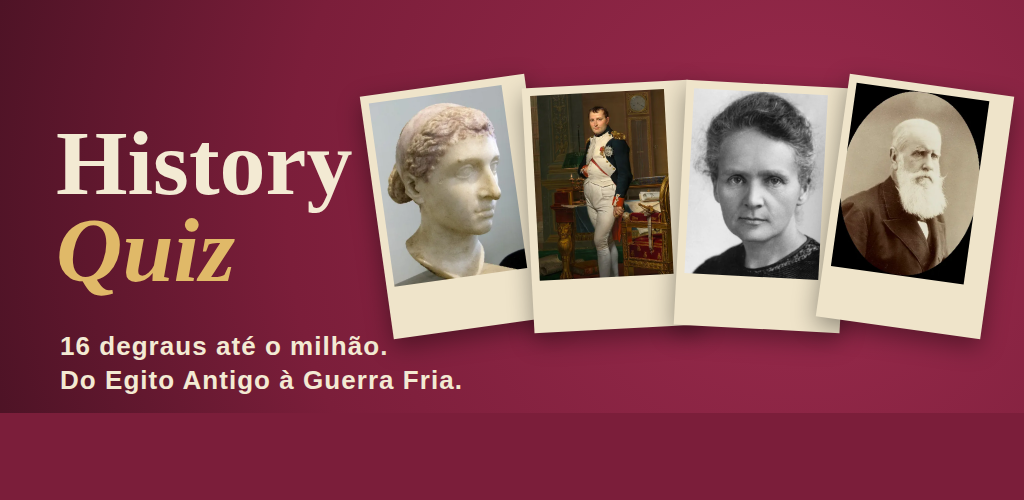
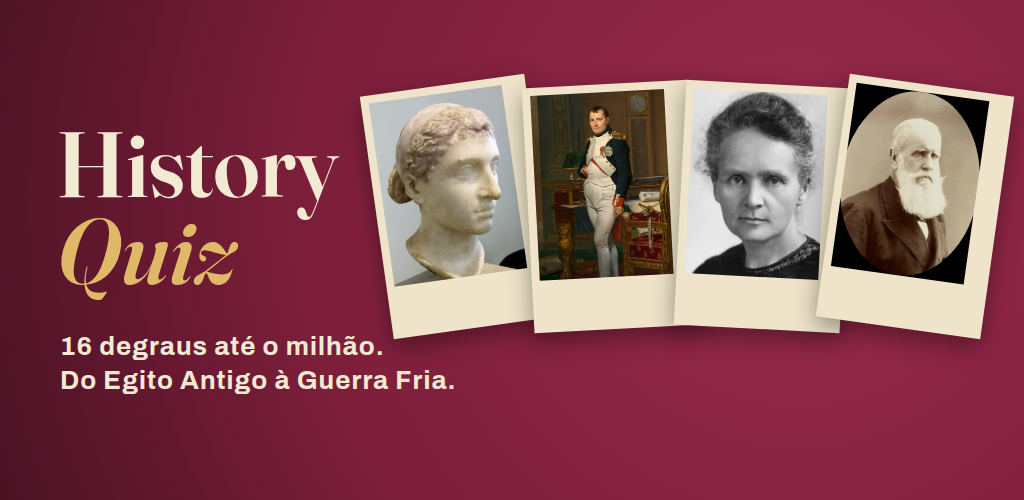
Play Store screenshots: the new set
Eight phone screenshots (Google Play takes eight at most): the cover
with its eight games, Rumo ao Milhão, the album's mapa-múndi, Onde foi?
answered on the atlas, Cronologia's line of time, Hoje na História, a
portrait question and Waterloo. The four older question shots they
replace are removed. Everything is set in the app's own fonts now, the
feature graphic too, and the feature graphic no longer has the blank
strip headless Chrome left under it.

Claude-Session: https://claude.ai/code/session_01VRnirvspfJkgye8PMHK31j

Changed region(s): [[0.0312, 0.24, 0.3438, 0.6], [0.0, 0.81, 0.1875, 1.0], [0.0625, 0.66, 0.4688, 0.78]]

diff --git a/tools/history/store_assets.py b/tools/history/store_assets.py
@@ -19,14 +19,17 @@ def Q(cat, pick, extra=""):
 
 STATES = {
  "shot-01-home": SEED + " heroSticker=function(){var h=PL.find(function(p){return p.id==='napoleao'});return {p:h,num:PL.indexOf(h)+1}}; sc='home'; go();",
- "shot-02-pessoas": Q("renascimento", "q.type==='player' && q.t.indexOf('Mona Lisa')>0"),
- "shot-03-monumento": Q("monumentos", "q.stad==='machu_picchu' && q.type==='txt'"),
- "shot-04-album": SEED + " albView='map'; amapView='EU'; sc='album'; go();",
- "shot-05-linha": ("diffKey='dificil'; cat=buildGame('dificil'); var q=CATS.find(function(c){return c.id==='linha_do_tempo'}).qs[3]; cat.qs=[q]; qi=0; sel.clear(); pts=72; streak=5; runLog=[3,3,3,3,3]; sc='quiz'; tMax=50; tLeft=36; disp=getDisp(q); go();"),
- "shot-07-batalha": Q("batalhas", "q.battle && q.battle.lbl.indexOf('Waterloo')===0"),
- "shot-08-citacao": Q("citacoes", "q.quote && q.quote.q.indexOf('Vim, vi')===0"),
- "shot-09-cena": Q("grecia", "q.t.indexOf('Termópilas')>0"),
- "shot-06-milhao": ("isMil=true; rung=10; banked=5000; diffKey='moderado'; var g=buildMilhao(); cat=g; qi=10; sel.clear(); pts=480; streak=4; runLog=[3,3,3,3,3,3,3,3,3,3]; sc='quiz'; tMax=30; tLeft=22; disp=getDisp(cat.qs[qi]); go();"),
+ "shot-02-milhao": ("isMil=true; rung=10; banked=5000; diffKey='moderado'; var g=buildMilhao(); cat=g; qi=10; sel.clear(); pts=480; streak=4; runLog=[3,3,3,3,3,3,3,3,3,3]; sc='quiz'; tMax=30; tLeft=22; disp=getDisp(cat.qs[qi]); go();"),
+ "shot-03-album": SEED + " albView='map'; amapView='WORLD'; sc='album'; go();",
+ "shot-04-onde": ("chal={g:'o',seed:4242,score:0,accepted:true}; startOnde(); chal=null;"
+                  " var q=onde.qs[0]; ondeSetPin(ondeXY(q.at[0]+0.6, q.at[1]+0.9)); ondeCommit(); ondeNext();"
+                  " q=onde.qs[1]; ondeSetPin(ondeXY(q.at[0]+2.2, q.at[1]-3.1)); ondeCommit();"
+                  " var xy=ondeXY(q.at[0]+1, q.at[1]-1.5); onde.v={cx:xy[0],cy:xy[1],z:3.2}; go();"),
+ "shot-05-cronologia": ("chal={g:'c',seed:90210,score:0,accepted:true}; startCron(); chal=null;"
+                        " for (var k=0;k<9;k++){ var e=cron.cur, r=cron.line.findIndex(function(x){return x.y>e.y}); cronPlace(r<0?cron.line.length:r); cronNext(); }"),
+ "shot-06-hoje": "startHoje();",
+ "shot-07-pessoas": Q("renascimento", "q.type==='player' && q.t.indexOf('Mona Lisa')>0"),
+ "shot-08-batalha": Q("batalhas", "q.battle && q.battle.lbl.indexOf('Waterloo')===0"),
 }
 
 def shot(name, js, w=500, h=900, scale=2, light=True):
@@ -62,7 +65,9 @@ def feature():
     cards = "".join('<div class="c" style="--r:%sdeg"><img src="file://%s"/></div>' % (r, os.path.join(ROOT, d[i]["img"]))
                     for i, r in zip(ids, (-8, -3, 3, 8)))
     html = """<!doctype html><meta charset=utf-8><style>
-    @import url('https://fonts.googleapis.com/css2?family=Fraunces:ital,opsz,wght@0,9..144,600;1,9..144,600&family=Archivo:wght@700&display=swap');
+    @font-face{font-family:Fraunces;font-weight:500 700;src:url(file://@@ROOT@@/img/fonts/fraunces-latin.woff2)}
+    @font-face{font-family:Fraunces;font-style:italic;font-weight:500 700;src:url(file://@@ROOT@@/img/fonts/fraunces-italic-latin.woff2)}
+    @font-face{font-family:Archivo;font-weight:400 800;src:url(file://@@ROOT@@/img/fonts/archivo-latin.woff2)}
     body{margin:0;width:1024px;height:500px;background:#7B1E3A;position:relative;overflow:hidden;font-family:Archivo,sans-serif}
     .bg{position:absolute;inset:0;background:radial-gradient(circle at 78% 40%,#9A2B4D,#7B1E3A 60%,#4A1224)}
     h1{position:absolute;left:56px;top:120px;margin:0;color:#F3EAD3;font:600 92px/0.95 Fraunces,Georgia,serif}
@@ -71,16 +76,19 @@ def feature():
     .row{position:absolute;right:26px;top:84px;display:flex;gap:0}
     .c{width:150px;height:215px;margin-left:-14px;background:#EFE4CA;padding:8px 8px 22px;box-shadow:0 8px 24px #0006;transform:rotate(var(--r));margin-top:calc(var(--r)*3)}
     .c img{width:134px;height:185px;object-fit:cover;display:block}
-    </style><div class=bg></div><h1>History<br><em>Quiz</em></h1><p>16 degraus até o milhão.<br>Do Egito Antigo à Guerra Fria.</p><div class=row>@@CARDS@@</div>""".replace("@@CARDS@@", cards)
+    </style><div class=bg></div><h1>History<br><em>Quiz</em></h1><p>16 degraus até o milhão.<br>Do Egito Antigo à Guerra Fria.</p><div class=row>@@CARDS@@</div>""".replace("@@CARDS@@", cards).replace("@@ROOT@@", ROOT)
     tmp = os.path.join(ROOT, "_feature.html")
     io.open(tmp, "w", encoding="utf-8").write(html)
     out = os.path.join(OUT, "feature-graphic.png")
     try:
         subprocess.run([CHROME] + EXTRA + ["--headless", "--disable-gpu", "--hide-scrollbars", "--allow-file-access-from-files",
-                        "--window-size=1024,500", "--virtual-time-budget=6000", "--screenshot=" + out, "file://" + tmp],
+                        "--window-size=1024,%d" % (500 + CHROME_H), "--virtual-time-budget=6000", "--screenshot=" + out, "file://" + tmp],
                        capture_output=True, timeout=120)
     finally:
         os.remove(tmp)
+    # as with the screenshots: the window is CHROME_H taller than the page, and the blank under it is cut off
+    from PIL import Image
+    Image.open(out).crop((0, 0, 1024, 500)).save(out)
     print("wrote", out)
 
 if __name__ == "__main__":
